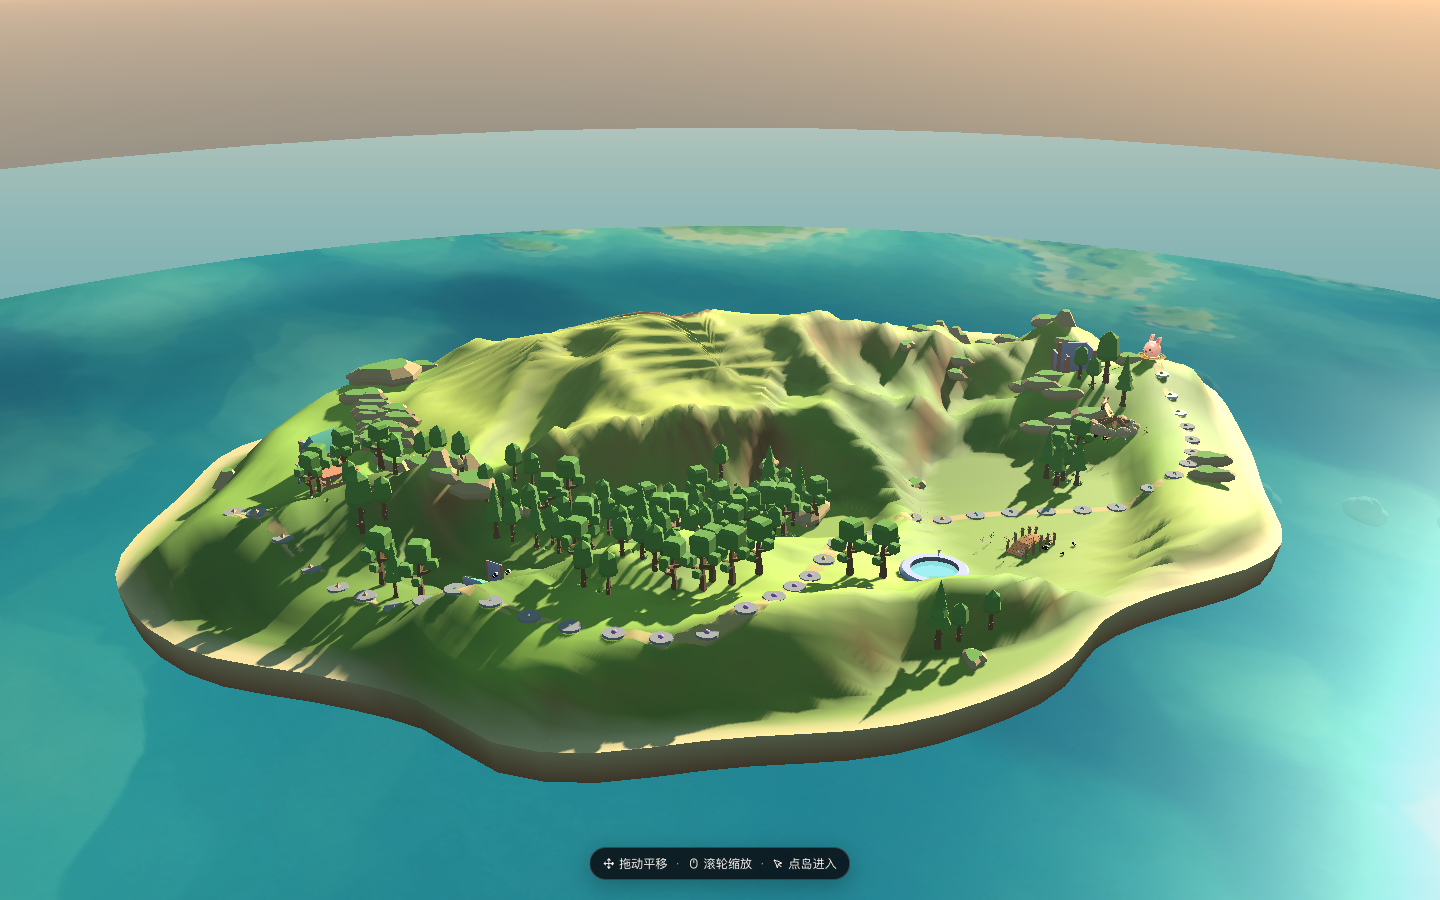
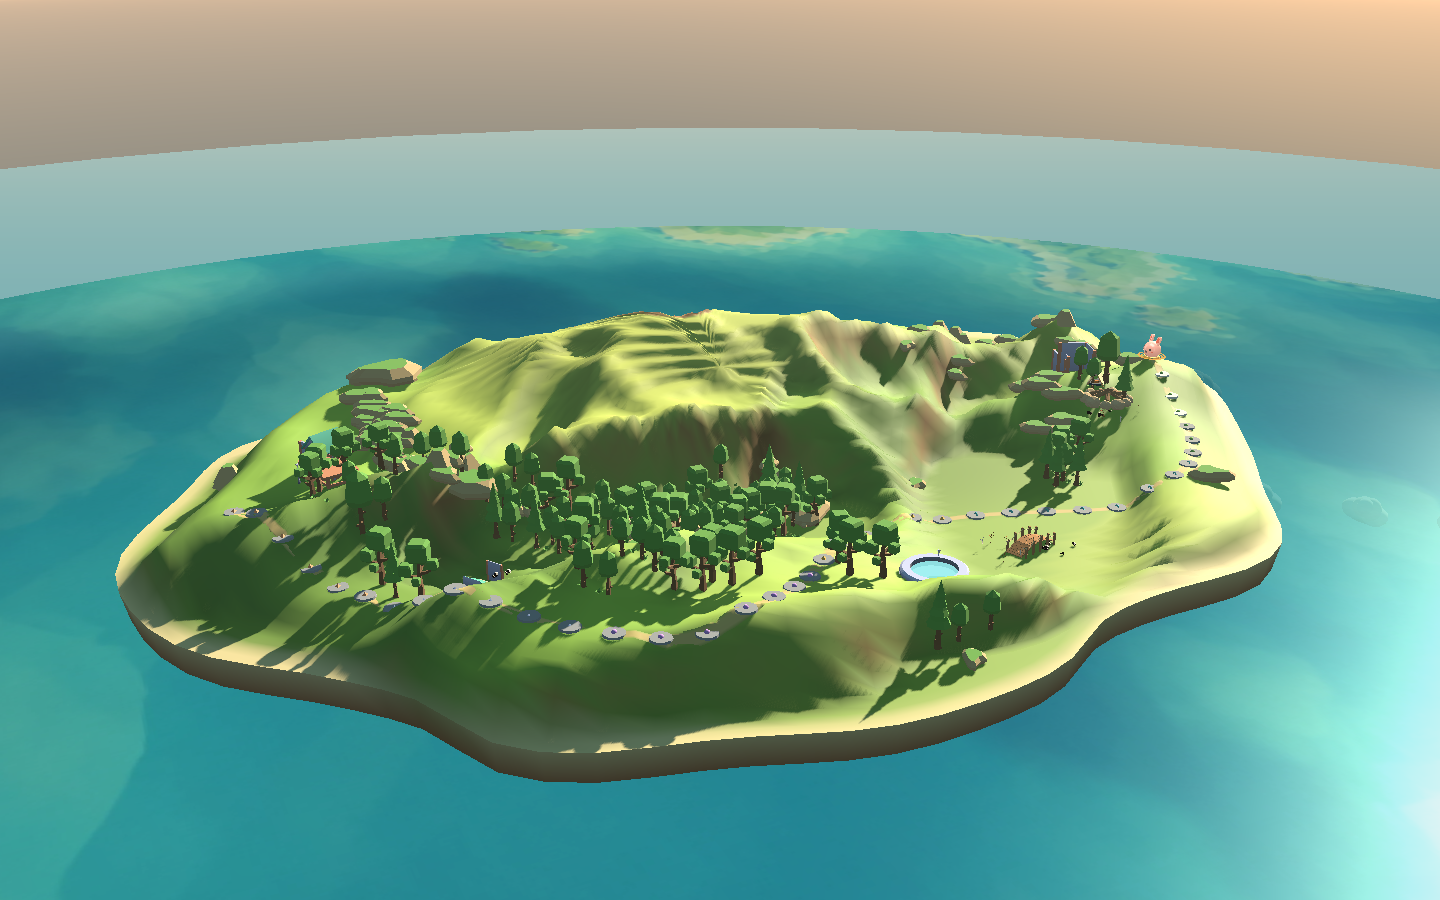
fix(near): finish low course camera and warm route
Select 68-degree/36-unit course framing from the fixed-seed contact sheet and real desktop/mobile review. Keep the rotation lock and 76-unit zoom ceiling, and record why the wider 0.68/0.16 WIP route was reversed: it removed a horseshoe outpost under the existing clearance contract. Use the stable 0.50/0.12 cream route band and preserve the evidence screenshots.

diff --git a/packages/world/src/island/island-blueprint.ts b/packages/world/src/island/island-blueprint.ts
@@ -226,11 +226,12 @@ const MAX_ACCENT_PACKS = 2;
 // These are part of the route contract, not a renderer-specific style tune.
 const DEFAULT_ROUTE_WIDTHS = {
   // The route is a readable cream band under the lesson stones, not a second
-  // chain of geometry. Its centre is about 55% of a node diameter and the
-  // complete worn band is about 80%, enough to read in the low near camera
-  // while leaving meadow visible between adjacent stones.
-  roadWidth: 0.68,
-  shoulderWidth: 0.16,
+  // chain of geometry. Its centre is about 40% of a node diameter and the
+  // complete worn band is about 60%, enough to read in the low near camera
+  // while leaving meadow visible between adjacent stones and the authored
+  // outposts clear of the hero.
+  roadWidth: 0.5,
+  shoulderWidth: 0.12,
   nodeRadius: 0.62,
   clearance: 0.38,
 } as const;

diff --git a/packages/world/src/island/island-blueprint.test.ts b/packages/world/src/island/island-blueprint.test.ts
@@ -93,9 +93,11 @@ describe("IslandBlueprint", () => {
     const fullPathRatio =
       (blueprint.route.roadWidth + blueprint.route.shoulderWidth * 2) / nodeDiameter;
 
-    expect(roadRatio).toBeGreaterThanOrEqual(0.52);
-    expect(roadRatio).toBeLessThanOrEqual(0.6);
-    expect(fullPathRatio).toBeLessThanOrEqual(0.84);
+    // The near camera needs a band that survives the final pixels, but the
+    // route must remain subordinate to the lesson stones and dressing clearances.
+    expect(roadRatio).toBeGreaterThanOrEqual(0.4);
+    expect(roadRatio).toBeLessThanOrEqual(0.46);
+    expect(fullPathRatio).toBeLessThanOrEqual(0.64);
   });
 
   it("validates multiple stable seeds at every supported fixture size", () => {

diff --git a/docs/reference/execution/island-look-contract.md b/docs/reference/execution/island-look-contract.md
@@ -553,3 +553,29 @@ p05 0.186 · p25 0.231 · median 0.287 · p75 0.311 · p95 0.329 · max 1.346
 6. **可读文字一律是 DOM，不是几何体。**
 7. **`packages/ui` 的 `three` 依赖保持 0。**
 8. 参考图是 AI 生成的插画。合同要的是它的**结构**——光比、明度跨度、密度、剪影、边缘——不是它的渲染精度。低模 CC0 资产做不出插画的细腻，也不需要做出来。
+
+## 七、近景镜头复核（2026-08-28）
+
+这一轮固定使用 `foundations-before-zero`，在桌面 1440×900 和手机 390×844
+上看真实课程页面；联系表额外覆盖 `polar=56/60/64/68/72/76°`、
+`distance=30/36/42`。联系表不是自动评分：先看 PNG，再用下列结论约束代码。
+
+### 被推翻的 WIP 结论
+
+上一轮 WIP 把 `roadWidth=0.68`、`shoulderWidth=0.16` 当成了最终宽路，理由是
+它在单张候选图里更醒目。复核发现这会让蓝图把 hero 推到更外侧，
+`island-dressing.test.ts` 的 horseshoe 路线只剩 2 个 outpost；扩大到
+`0.54` 也仍然复现。这个问题属于路线蓝图与现有装饰安全边界的契约冲突，
+不应通过复制或修改 dressing 规则掩盖。
+
+因此采用 `roadWidth=0.50`、`shoulderWidth=0.12`：路芯约为节点直径的 40%，
+完整带宽约为 60%，并通过五种路线形状的 outpost 约束。配合暖奶油色 soil
+材质，它在真实页面的有效像素里仍能读成连续的路带；`roadWidth=0.68` 的
+视觉收益不足以抵偿该确定性回归。
+
+### 镜头选择
+
+`COURSE_POLAR=68°`（离地平线 22°）与 `COURSE_DISTANCE=36` 是最终课程落地姿态。
+`60°` 更像地图俯视图，`72°` 及以上把近处草和石块推成前景墙；`68°/36`
+在桌面同时留下头像、天空/海的纵深带和约五个后续节点，手机上也比更近档位少裁掉
+路径。旋转锁定保持不变，`COURSE_DISTANCE_MAX=76` 继续允许拉远查看全岛。
